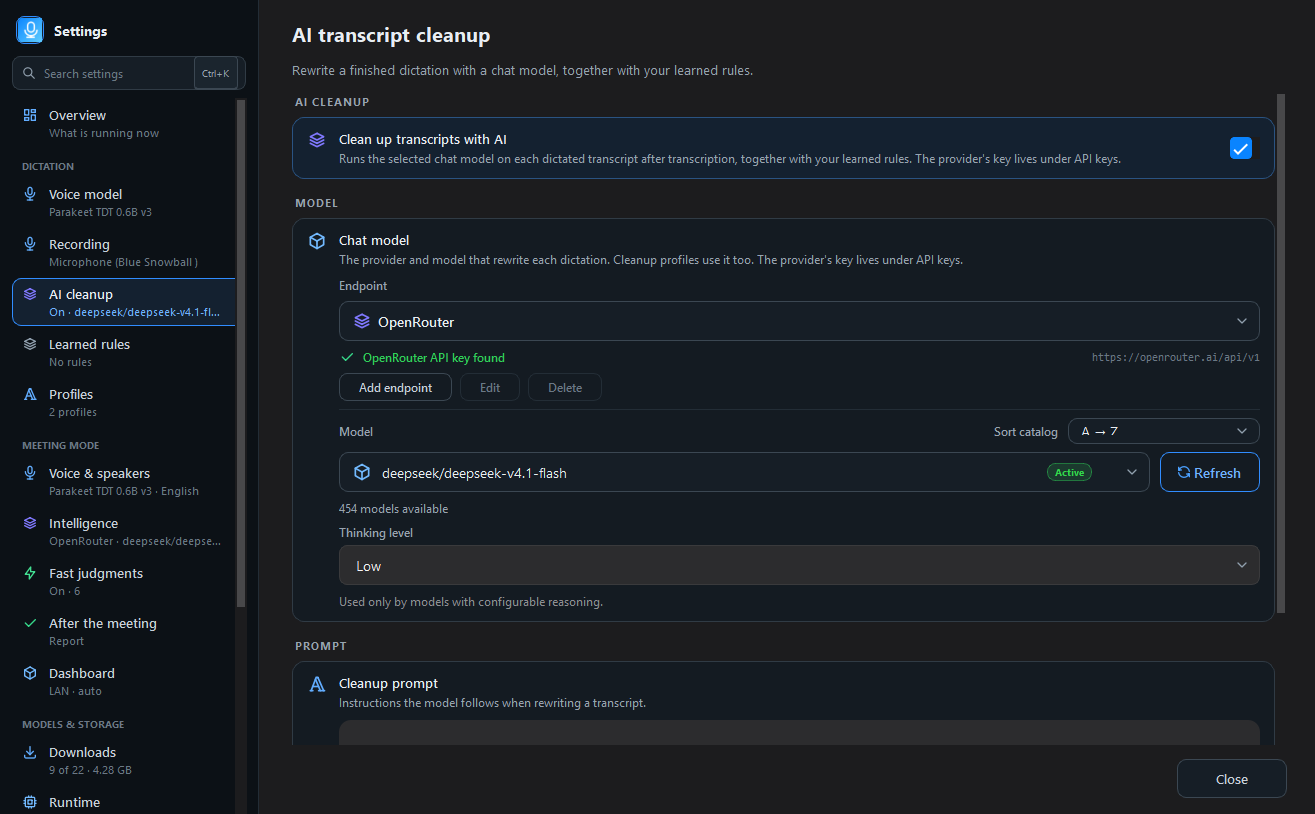
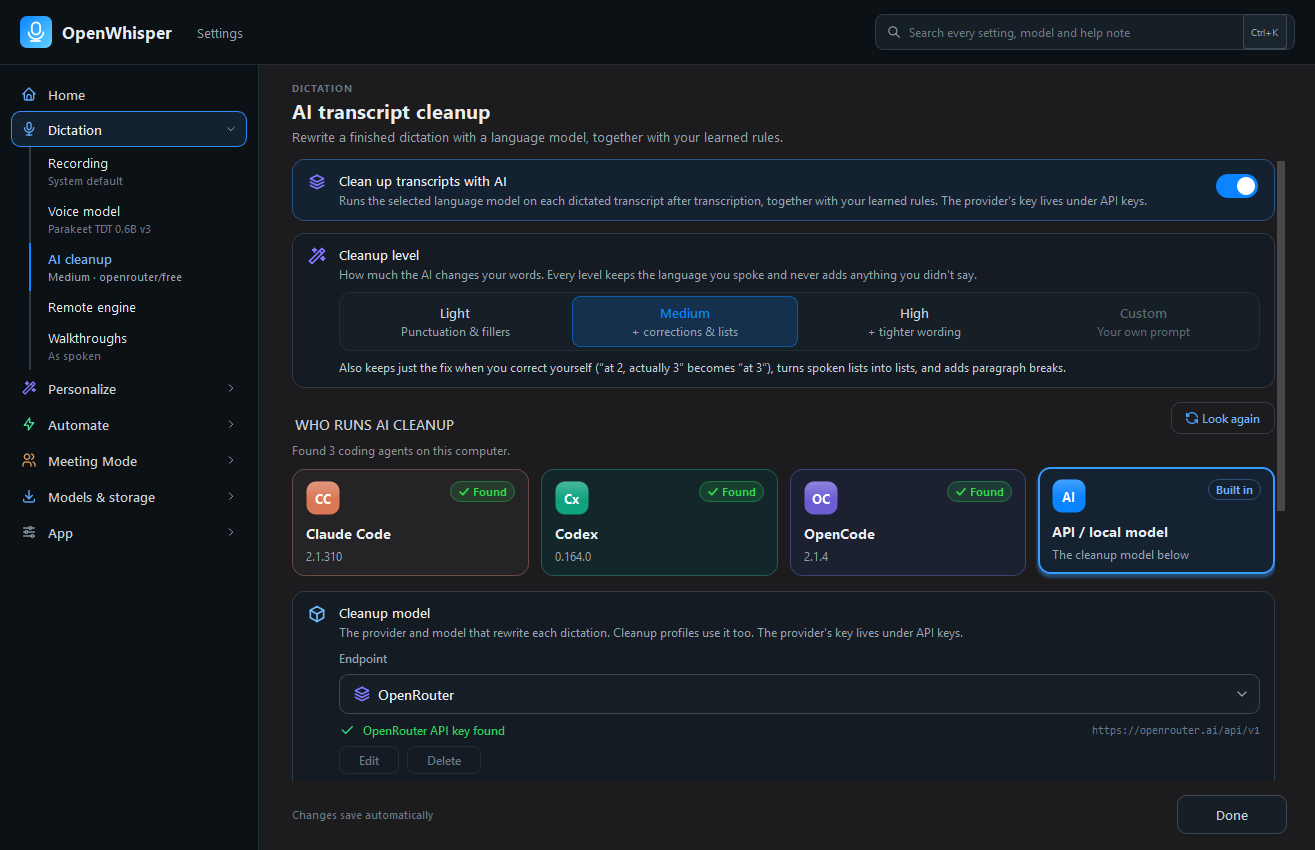
Bring the README up to date with 2.8.0
Describe Settings Home and its six sections instead of the removed
Basic/Advanced views, give every Settings path its section, and replace
the "daily" update check with the 4-hour check and title-bar notice.
Pairing now describes discovery and the matching-number check, AI
cleanup mentions installed coding agents, and Host Mode gets a line.

Refresh the Quick Record, AI cleanup and Downloads screenshots and show
Home in place of the Overview page. The old Overview image stays: an
archived design note uses it as its reference.

diff --git a/README.md b/README.md
@@ -29,10 +29,10 @@ Use a [packaged release](#install) with bundled Python and dependencies, or [run
 - **AI cleanup:** Choose Light, Medium, or High cleanup, which handles spoken corrections and lists, then apply spelling and style rules or reusable [cleanup profiles](docs/cleanup-profiles.md), with separate text-model choices for dictation and meetings.
 - **Personalize:** A [dictionary](docs/personalize.md#dictionary) that steers recognition and learns from your corrections, spoken [snippets](docs/personalize.md#snippets), a tone for each kind of app, and [Command Mode](docs/personalize.md#command-mode-and-transforms) to rewrite selected text by voice or with saved transforms.
 - **Extras:** Hands-free recording by double-tapping the record key, mouse side buttons as shortcuts, ranked microphones with automatic fallback, an overlay language switcher, a floating Scratchpad, and dictation Stats.
-- **Settings:** Use Basic for everyday Dictation, Meetings, and App controls; switch to Advanced for full model configuration, downloads, and Ctrl+K search. Both views edit the same settings and remember your last selected view.
+- **Settings:** Opens on **Home**, with where your words go, the everyday controls, and what's downloaded. Everything else is in six sidebar sections (Dictation, Personalize, Automate, Meeting Mode, Models & storage, App), and the header search (Ctrl+K) finds any setting. New installs get an optional guided setup, which **File → Guided setup…** reopens.
 - **History:** Search, play back, retranscribe, and export transcripts as Markdown, plain text, or JSON, and switch an entry between its original and AI-cleaned versions. See [export format support](docs/export-support.md) for what each format includes.
 - **Agent history API (preview):** Search saved transcripts and meeting notes through an opt-in, authenticated local API. See [API setup](docs/agent-api.md).
-- **MCP:** Enable **Settings → API & MCP** to connect an agent to history, transcripts, and meeting insights. Optionally allow retitling and choose which settings agents may change. See [MCP setup](docs/mcp.md).
+- **MCP:** Enable **Settings → Automate → API & MCP** to connect an agent to history, transcripts, and meeting insights. Optionally allow retitling and choose which settings agents may change. See [MCP setup](docs/mcp.md).
 - **Actions and automation:** Send what you say to a new Claude or ChatGPT chat, your coding agent, a running Claude Code session, a webhook or a program, with a shortcut or by naming it ("Claude, …"). Follow live events, run actions and change dictated text from your own tools over a local API, webhooks and MCP. See [Actions, live events and hooks](docs/automation.md).
 
 The app also includes microphone selection, a system tray where available, and dark, light, or system-matched themes.
@@ -63,7 +63,7 @@ Downloads include `SHA256SUMS.txt` for verification. Compare your file's hash us
 
 In **System Settings → Privacy & Security**, allow **Microphone** for recording, **Screen & System Audio Recording** for meeting audio, and **Accessibility** for auto-paste. You can copy transcripts without Accessibility.
 
-**Settings → General → Set up auto-paste** shows which app to allow. If permission breaks after an update, remove its old entry, add the app again, and restart.
+**Settings → App → General → Set up auto-paste…** shows which app to allow. If permission breaks after an update, remove its old entry, add the app again, and restart.
 
 ## Run from source
 
@@ -127,7 +127,7 @@ Contributors can use `uv sync` and `uv run python main.py`. See [development wit
 
 ## GPU acceleration
 
-For Local Whisper on Windows or Linux x86_64, install **GPU Acceleration** from **Downloads → Components**, or choose **Use this GPU** when prompted. Requires an NVIDIA driver providing CUDA 12 (525+); the CUDA Toolkit is not needed. macOS uses CPU.
+For Local Whisper on Windows or Linux x86_64, install **GPU Acceleration** from **Settings → Models & storage → Downloads → Components**, or choose **Use this GPU** when prompted. Requires an NVIDIA driver providing CUDA 12 (525+); the CUDA Toolkit is not needed. macOS uses CPU.
 
 Source installs can use `python -m pip install -r requirements-gpu.txt` in the activated virtual environment. **Auto** selects a compatible compute type; **Downloads** shows GPU memory estimates.
 
@@ -135,18 +135,20 @@ Other speech engines use their own runtimes from Downloads. On Apple Silicon Mac
 
 ## Updates
 
-On macOS, use **OpenWhisper → Check for Updates**. On Windows and Linux, use **Help → Check for Updates**. Configure automatic checks and notifications in **Settings → General**.
+OpenWhisper asks GitHub for the latest release when it starts and every 4 hours while it runs, sending only the app version. A newer release shows as an **Update to x.y.z** button in the title bar and the tray menu until you update. To check yourself, use **OpenWhisper → Check for Updates** on macOS or **Help → Check for Updates** on Windows and Linux. Turn automatic checks off in **Settings → App → General → Updates**. Git checkouts don't check on their own.
 
 - **Windows:** Apply the in-app update or follow the setup prompt.
 - **macOS:** The verified update installs and restarts the app, restoring the previous version if startup fails. If the app cannot replace itself, it opens the verified DMG for replacement in Applications.
 - **Linux:** Install the new package with the same command used for installation.
 - **From source:** Run `git pull --ff-only` and reinstall requirements if dependencies changed.
 
+When a package upgrade or pull replaces the app while it runs, OpenWhisper offers **Restart now** once nothing is recording or transcribing.
+
 ## Get started
 
-1. Open **Settings → Voice model** and choose a speech backend. New Windows x64 and Linux x86_64 installs default to Parakeet, and Apple Silicon Macs on macOS 14 or later to Parakeet MLX; other platforms default to Local Whisper. Existing installs keep the engine they use.
-2. Download the model and runtime through **Settings → Downloads**, or add an OpenAI key in **Settings → App → API keys** for cloud transcription.
-3. Choose your microphone in **Settings → Recording**. On macOS, grant the [required permissions](#macos-permissions).
+1. Open **Settings → Dictation → Voice model** and choose a speech backend. New Windows x64 and Linux x86_64 installs default to Parakeet, and Apple Silicon Macs on macOS 14 or later to Parakeet MLX; other platforms default to Local Whisper. Existing installs keep the engine they use.
+2. Download the model and runtime through **Settings → Models & storage → Downloads**, or add an OpenAI key in **Settings → App → API keys** for cloud transcription.
+3. Choose your microphone in **Settings → Dictation → Recording**. On macOS, grant the [required permissions](#macos-permissions).
 4. Use **Quick Record** or the recording hotkey. Stop recording to transcribe; dictation follows your clipboard and auto-paste settings. **Upload File** results stay in the app and have Copy buttons.
 
 For meetings, open **Meeting Mode**. Add an optional brief to guide AI notes and the live copilot; you can edit it during the meeting. After transcription, **Continue in the background** lets you start another meeting while reports finish. Find results in **Past Meetings**.
@@ -155,7 +157,7 @@ Optional [insight review](docs/meeting-insight-review.md) helps clarify uncertai
 
 ### Hotkeys
 
-Change shortcuts and choose **Toggle** or **Push and hold** in **Settings → Hotkeys**. Toggle starts and stops recording with successive presses; push-and-hold records until you release the shortcut.
+Change shortcuts and choose **Toggle** or **Push and hold** in **Settings → App → Hotkeys**. Toggle starts and stops recording with successive presses; push-and-hold records until you release the shortcut.
 
 | Action | Windows / Linux | macOS |
 | --- | --- | --- |
@@ -172,7 +174,7 @@ On X11 Linux, hotkeys also reach the focused app. Omarchy supports desktop short
 
 OpenWhisper adapts to Omarchy 3 and 4 with a compact interface and desktop colors. Hyprland manages window placement and sizing; Omarchy mode supports desktop shortcuts and auto-paste on Hyprland 0.55+.
 
-Choose **Settings → Appearance → Theme → Omarchy desktop** to follow your desktop palette. An optional [Omarchy 4 bar widget](integrations/omarchy) provides recording controls, status, and live text.
+Choose **Settings → App → Appearance → Theme → Omarchy desktop** to follow your desktop palette. An optional [Omarchy 4 bar widget](integrations/omarchy) provides recording controls, status, and live text.
 
 ## Speech models
 
@@ -187,7 +189,7 @@ Choose **Settings → Appearance → Theme → Omarchy desktop** to follow your 
 | API | OpenAI: GPT-Transcribe; GPT-4o Transcribe, GPT-4o Mini Transcribe, and Whisper until OpenAI retires them on February 26, 2027. Groq: Whisper Large v3 / Turbo. Your own server: whatever it serves | OpenAI or Groq in the cloud (API key required), or an OpenAI-compatible speech server you run: Speaches, LocalAI, vLLM, whisper.cpp, or custom | Dictation, uploads |
 | Remote computer | Whichever engine the paired computer has selected | Another computer running OpenWhisper on your network | Dictation with that engine's preview, uploads, meetings with a supported host model |
 
-- **Downloads:** Install both the model and its required runtime in **Settings → Downloads**. Each entry shows its size, publisher, license, and download checks.
+- **Downloads:** Install both the model and its required runtime in **Settings → Models & storage → Downloads**. Each entry shows its size, publisher, license, and download checks.
 - **Languages:** Choose a supported language or **Auto** for detection. Coverage varies by engine; Moonshine is English-only. Language selection controls transcription, not translation.
 - **Apple Silicon:** Choose **Auto** to use the Apple GPU where supported. See [GPU acceleration](#gpu-acceleration) for engine-specific support.
 
@@ -195,7 +197,7 @@ See [speech model details](docs/speech-models.md) for language coverage, platfor
 
 ### Custom Whisper models
 
-Choose **Add custom models…** in **Settings → Downloads**, **Dictation → Voice model**, or **Meeting Mode → Voice & speakers**.
+Choose **Add custom models…** in **Settings → Models & storage → Downloads**, **Dictation → Voice model**, or **Meeting Mode → Voice & speakers**.
 
 - **Local files:** Choose a model folder or a parent folder containing several models. OpenWhisper lists complete model folders for you to select.
 - **Hugging Face:** Enter an `owner/model` repository and, optionally, a subfolder such as `ct2_int8_float16`. **Find on Hugging Face** lists compatible model folders without downloading weights. You can also discover models already in the local Hugging Face cache.
@@ -209,9 +211,11 @@ Click **Add selected**, then choose a model in **Voice model** or **Voice & spea
 
 Use another computer's OpenWhisper engine for dictation, uploads, or meetings:
 
-1. On the computer with the engine, open **Settings → Dictation → Remote engine**, turn on **Share this computer's engine**, and click **Pair a device**. Allow OpenWhisper through the firewall if Windows asks.
-2. On the other computer, open the same page, enter the host's address (shown under the switch) and the six-digit code, and click **Pair**. Check that both screens show the same identity code.
+1. On the computer with the engine, open **Settings → Dictation → Remote engine**, choose **Share this computer**, and turn on **Share this computer's engine**. Allow OpenWhisper through the firewall if Windows asks.
+2. On the other computer, open the same page, choose **Use another computer**, find the host on your network or tailnet, and click **Connect**. Compare the six-digit number on both screens, then click **Allow** on the host only if they match. If the host isn't listed, use **Enter an address** on the client and **Show a pairing code** on the host.
 3. Click **Use for dictation**, or choose **Remote computer** as the recording engine.
+
+**View → Host Mode** turns a computer that mostly serves others into a host dashboard: sharing status and address, the engine served, who's connected and what they asked for.
 
 The host's selected engine handles transcription. Traffic is encrypted and limited to paired computers; remove access under **Paired computers**.
 
@@ -226,16 +230,16 @@ If macOS Keychain refuses to save the connection key, click **Retry Keychain acc
 
 Use AI cleanup to polish dictation and meeting intelligence to generate notes and insights. Each has its own text-model settings.
 
-- **Dictation:** Enable **Settings → AI cleanup**, choose a cleanup level, and choose a text model. Add words to the **Dictionary**, pick a tone per kind of app in **Styles**, teach other behaviour in **Learned rules**, or use [Profiles](docs/cleanup-profiles.md) for reusable formats. See [Personalize dictation](docs/personalize.md).
+- **Dictation:** Enable **Settings → Dictation → AI cleanup**, choose a cleanup level, and choose who runs it: an installed Claude Code, Codex, or OpenCode with its own sign-in, or a text model below. The **Thinking level** lists only the levels the chosen model accepts. Add words to the **Dictionary**, pick a tone per kind of app in **Styles**, teach other behaviour in **Learned rules**, or use [Profiles](docs/cleanup-profiles.md) for reusable formats. See [Personalize dictation](docs/personalize.md).
 - **Providers:** OpenAI, OpenRouter, Ollama, LM Studio, vLLM, llama.cpp, LocalAI, Groq, OpenCode Go/Zen, and custom OpenAI-compatible endpoints. Add keys in **Settings → App → API keys**; the local servers are preconfigured with their standard local addresses and need no key — just run the server. **Edit** changes its address or sets an optional API key variable. The picker marks local servers that are running, reads each model's context and thinking support from the server, and lists only models that generate text.
 - **OpenAI cleanup:** The suggested model is `gpt-6-luna`. Saved OpenAI cleanup assignments using the old `gpt-4o-mini` default resolve to Luna; other models, providers, and saved meeting assignments are kept. Thinking **Off** explicitly requests `reasoning.effort: none` through the Responses API. Cleanup remains off by default, and fresh text-model assignments still use OpenRouter Free.
 - **Meetings:** Choose an engine in **Settings → Meeting Mode → Intelligence** using the options below.
 
 | Meeting engine | Setup |
 | --- | --- |
-| Pi (default) | Uses your selected text endpoint and API key. Install from **Downloads → Components** where available. |
+| Pi (default) | Uses your selected text endpoint and API key. Install from **Models & storage → Downloads → Components** where available. |
 | Claude Code, Codex, or OpenCode | Select an installed agent's tile to use its sign-in, providers, and models. Install, update, and sign in to the agent yourself. |
-| OpenCode SDK | Install from **Downloads → Components** where available, then select it under **Agent core**. |
+| OpenCode SDK | Install from **Models & storage → Downloads → Components** where available, then select it under **Agent core**. |
 
 Meeting passes count toward the installed agent's account or API usage. These agents refresh live insights less often. If an engine is unavailable, select another or continue recording without AI insights.
 
@@ -245,13 +249,13 @@ See [AI and meeting setup](docs/meeting-intelligence.md) for custom endpoints, e
 
 Downloaded speech models load from the local cache without network metadata checks. Install any required runtime before going offline.
 
-Choose whether to ask, allow, or block missing-model downloads in **Settings → Downloads → When a model is missing from this computer**. Set `HF_HUB_OFFLINE=1` before launch to block model downloads entirely. Cloud transcription and remote text providers still need a network connection; speech and text servers on this computer do not. See [Network and privacy](docs/network-and-privacy.md) for every connection the app can make. Only the daily update check is on by default, and there is no telemetry.
+Choose whether to ask, allow, or block missing-model downloads in **Settings → Models & storage → Downloads → When a model is missing from this computer**. Set `HF_HUB_OFFLINE=1` before launch to block model downloads entirely. Cloud transcription and remote text providers still need a network connection; speech and text servers on this computer do not. See [Network and privacy](docs/network-and-privacy.md) for every connection the app can make. Only the update check (at launch and every 4 hours) is on by default, and there is no telemetry.
 
 <details>
 <summary>More screenshots</summary>
 
 <p align="center">
-  <img width="880" alt="Settings Overview: models in use, what stays local, and storage" src="docs/screenshots/01-settings-overview.png" />
+  <img width="880" alt="Settings Home: where your words go, everyday controls, and the six sidebar sections" src="docs/screenshots/01-settings-home.png" />
 </p>
 
 <p align="center">
@@ -259,15 +263,11 @@ Choose whether to ask, allow, or block missing-model downloads in **Settings →
 </p>
 
 <p align="center">
-  <img width="880" alt="Settings → AI cleanup: cleanup model, endpoint, and thinking level" src="docs/screenshots/03-settings-ai-cleanup.png" />
+  <img width="880" alt="Settings → Dictation → AI cleanup: cleanup level, who runs cleanup, and the cleanup model" src="docs/screenshots/03-settings-ai-cleanup.png" />
 </p>
 
 <p align="center">
-  <img width="880" alt="Settings → Downloads: model catalog and technical details" src="docs/screenshots/06-downloads-model-profile.png" />
-</p>
-
-<p align="center">
-  <img width="880" alt="General settings" src="docs/screenshots/01-general.png" />
+  <img width="880" alt="Settings → Models & storage → Downloads: speech model catalog" src="docs/screenshots/06-downloads.png" />
 </p>
 
 </details>
